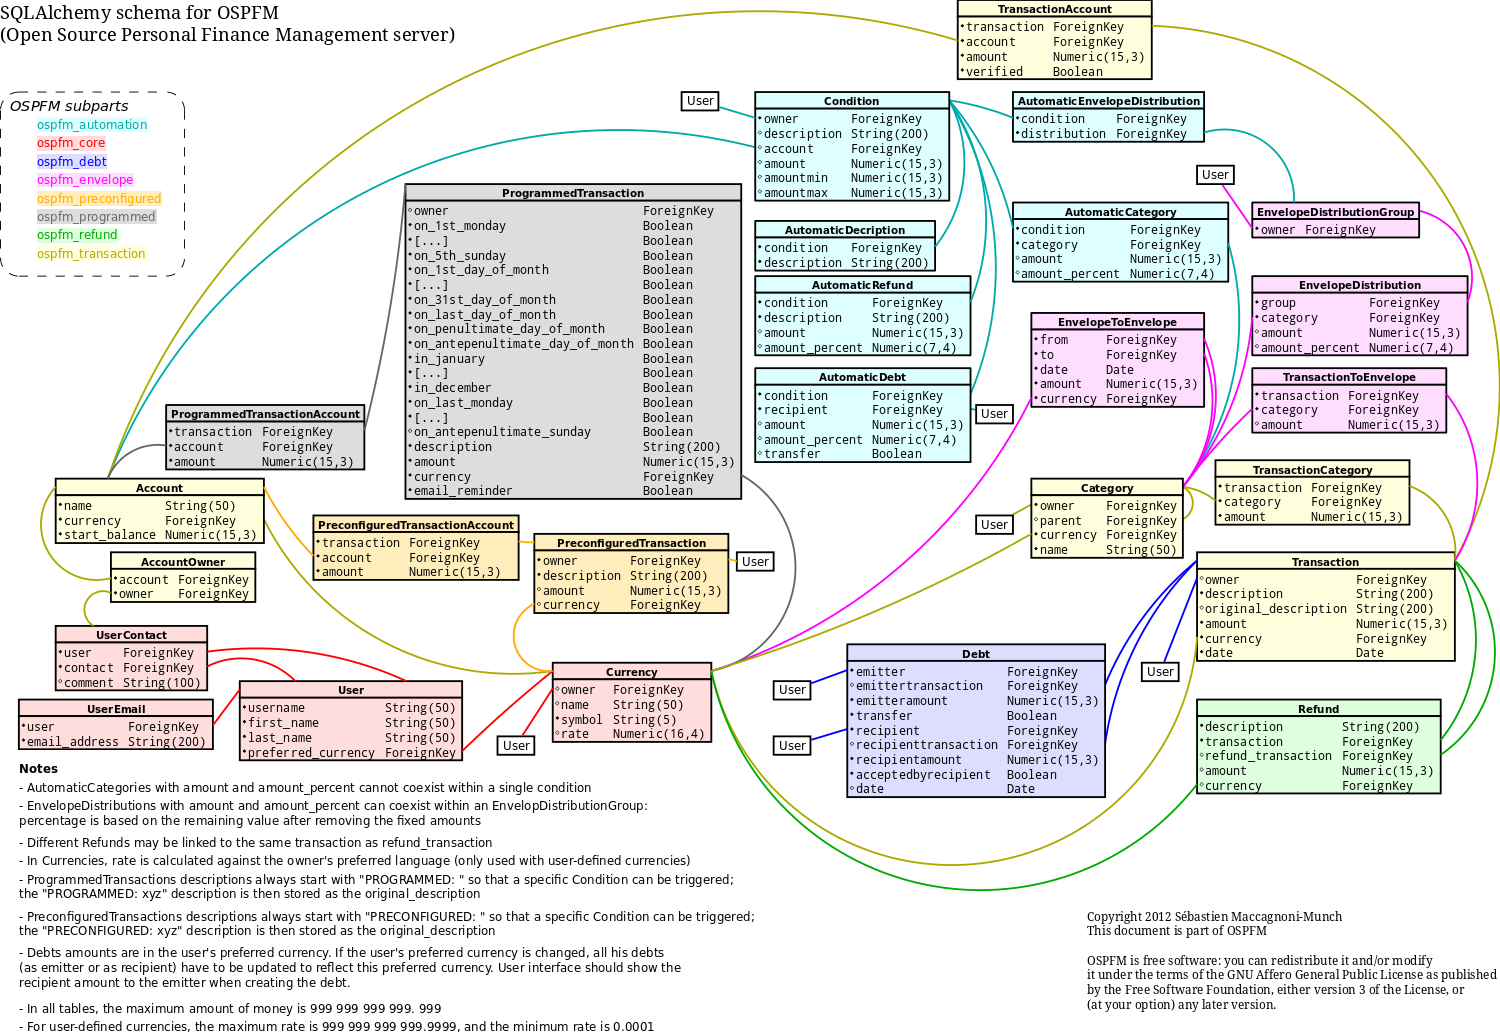
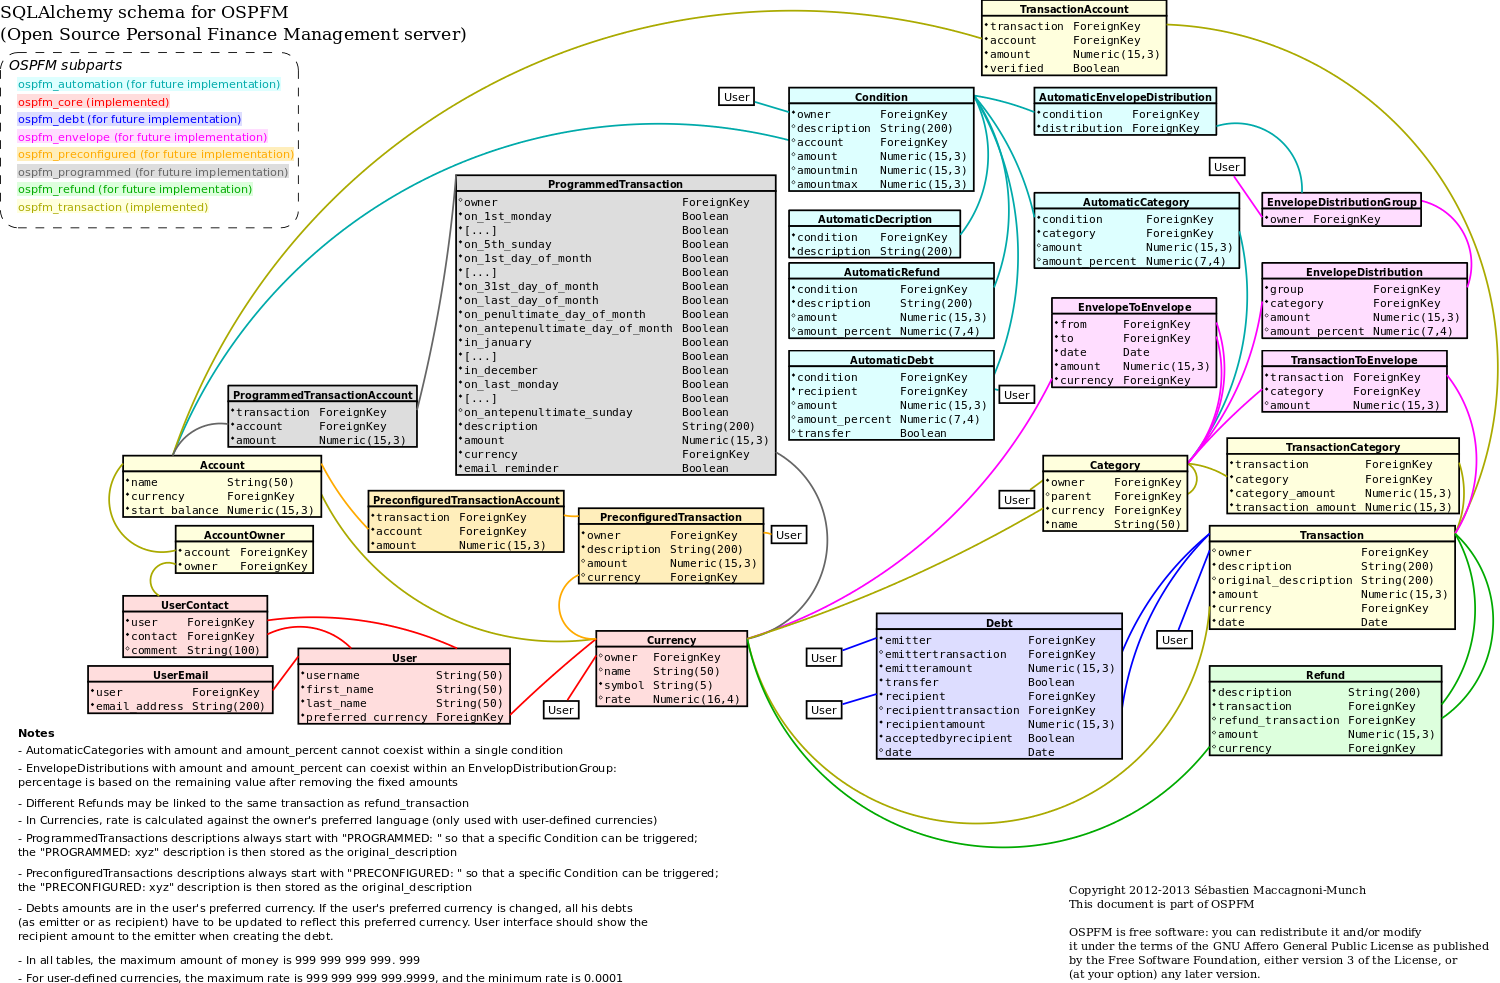
Links from transaction to categories contain amounts in transaction's currency and in category's currency

diff --git a/ospfm/transaction/transaction.py b/ospfm/transaction/transaction.py
@@ -117,7 +117,8 @@ class Transaction(Object):
             categories = json.loads(self.args['categories'])
             for categorydata in categories:
                 transaction_categories = []
-                if categorydata.has_key('amount'):
+                if categorydata.has_key('transaction_amount') and \
+                   categorydata.has_key('category_amount'):
                     # If no amount is specified, do not associate the category
                     categoryobject = models.Category.query.options(
                         joinedload(models.Category.currency)
@@ -131,7 +132,8 @@ class Transaction(Object):
                         tc = models.TransactionCategory(
                                 transaction = transaction,
                                 category = categoryobject,
-                                amount = categorydata['amount']
+                       transaction_amount = categorydata['transaction_amount'],
+                              category_amount = categorydata['category_amount']
                         )
                         session.add(tc)
                     self.add_to_response('categorybalance',
@@ -234,19 +236,23 @@ class Transaction(Object):
                                         transaction.transaction_categories])
             new_categories_data = json.loads(self.args['categories'])
             for category_data in new_categories_data:
-                if category_data.has_key('amount') and \
+                if category_data.has_key('transaction_amount') and \
+                   category_data.has_key('category_amount') and \
                    category_data.has_key('category'):
-                    amount = category_data['amount']
+                    transaction_amount = category_data['transaction_amount']
+                    category_amount = category_data['category_amount']
                     categoryid = category_data['category']
                     if categoryid in existing_categories.keys():
                         # Category already linked...
-                        if existing_categories[categoryid] != amount:
+                        if existing_categories[categoryid]['category_amount'] \
+                           != category_amount:
                             # ...but the amount is different
                             tc = models.TransactionCategory.query.filter(and_(
                          models.TransactionCategory.transaction == transaction,
                          models.TransactionCategory.category_id == categoryid
                             )).one()
-                            tc.amount = amount
+                            tc.transaction_amount = transaction_amount
+                            tc.category_amount = category_amount
                             tc.verified = False
                             self.add_to_response('categorybalance', categoryid)
                         existing_categories.pop(categoryid)
@@ -263,7 +269,8 @@ class Transaction(Object):
                             tc = models.TransactionCategory(
                                     transaction = transaction,
                                     category = categoryobject,
-                                    amount = amount
+                                    transaction_amount = transaction_amount,
+                                    category_amount = category_amount
                             )
                             self.add_to_response('categorybalance', categoryid)
                             session.add(tc)
@@ -283,6 +290,7 @@ class Transaction(Object):
 
     def delete(self, transactionid):
         transaction = self.__own_transaction(transactionid)
+        # TODO: Additional info, account balance and total balance
         if not transaction:
             self.notfound()
         session.delete(transaction)

diff --git a/ospfm/transaction/models.py b/ospfm/transaction/models.py
@@ -130,7 +130,7 @@ class Category(Base):
             balance = {'currency': self.currency.isocode};
 
             balance['year'] = session.query(
-                func.sum(TransactionCategory.amount)
+                func.sum(TransactionCategory.category_amount)
             ).filter(
                 and_(
                     TransactionCategory.category_id == self.id,
@@ -148,7 +148,7 @@ class Category(Base):
                 lastdayofmonth = datetime.date(today.year, today.month+1, 1) - \
                                                               datetime.timedelta(1)
             balance['month'] = session.query(
-                func.sum(TransactionCategory.amount)
+                func.sum(TransactionCategory.category_amount)
             ).filter(
                 and_(
                     TransactionCategory.category_id == self.id,
@@ -163,7 +163,7 @@ class Category(Base):
             firstdayofweek = today - datetime.timedelta(today.weekday())
             lastdayofweek = today + datetime.timedelta(6-today.weekday())
             balance['week'] = session.query(
-                func.sum(TransactionCategory.amount)
+                func.sum(TransactionCategory.category_amount)
             ).filter(
                 and_(
                     TransactionCategory.category_id == self.id,
@@ -176,7 +176,7 @@ class Category(Base):
             ).one()[0] or 0
 
             balance['7days'] = session.query(
-                func.sum(TransactionCategory.amount)
+                func.sum(TransactionCategory.category_amount)
             ).filter(
                 and_(
                     TransactionCategory.category_id == self.id,
@@ -189,7 +189,7 @@ class Category(Base):
             ).one()[0] or 0
 
             balance['30days'] = session.query(
-                func.sum(TransactionCategory.amount)
+                func.sum(TransactionCategory.category_amount)
             ).filter(
                 and_(
                     TransactionCategory.category_id == self.id,
@@ -302,15 +302,23 @@ class TransactionCategory(Base):
     __tablename__ = 'transactioncategory'
     transaction_id = Column(ForeignKey('transaction.id'), primary_key=True)
     category_id = Column(ForeignKey('category.id'), primary_key=True)
-    amount = Column(Numeric(15, 3), nullable=False)
+    transaction_amount = Column(Numeric(15, 3), nullable=False)
+    category_amount = Column(Numeric(15, 3), nullable=False)
 
     transaction = relationship('Transaction')
     category = relationship('Category')
 
     def as_dict(self):
         data = self.category.as_dict(parent=False,children=False,balance=False)
-        data['amount'] = self.amount
+        data['transaction_amount'] = self.transaction_amount
+        data['category_amount'] = self.category_amount
         return data
 
     def as_tuple(self):
-        return (self.category_id, self.amount)
+        return (
+            self.category_id,
+            {
+                'transaction_amount': self.transaction_amount,
+                'category_amount': self.category_amount
+            }
+        )

diff --git a/createdb.py b/createdb.py
@@ -85,7 +85,7 @@ def populate_test_db():
     alicecat7 = transaction.Category(owner=alice, parent=alicecat6,
                                      name='Electricity', currency=euro)
     alicecat8 = transaction.Category(owner=alice, parent=alicecat6,
-                                     name='Internet access', currency=euro)
+                                     name='Internet access', currency=dollar)
     alicecat9 = transaction.Category(owner=alice, parent=alicecat3,
                                      name='Danceclub', currency=euro)
     bobcat1 = transaction.Category(owner=bob, name='Car', currency=euro)
@@ -112,7 +112,8 @@ def populate_test_db():
     ta1 = transaction.TransactionAccount(transaction=t1, account=acct1,
                                          amount=-83.42)
     tc1 = transaction.TransactionCategory(transaction=t1, category=alicecat7,
-                                          amount=-83.42)
+                                          transaction_amount=-83.42,
+                                          category_amount=-83.42)
     t2 = transaction.Transaction(owner=alice, description='Transfer',
                                  original_description='Transfer',
                                  amount=0, currency=dollar,

diff --git a/ospfm/transaction/category.py b/ospfm/transaction/category.py
@@ -112,7 +112,7 @@ class Category(Object):
                 for tc in models.TransactionCategory.query.filter(
                             models.TransactionCategory.category == category
                           ).all():
-                    tc.amount = tc.amount * rate
+                    tc.category_amount = tc.category_amount * rate
         if self.args.has_key('parent'):
             if self.args['parent'] == 'NONE':
                 category.parent_id = None
